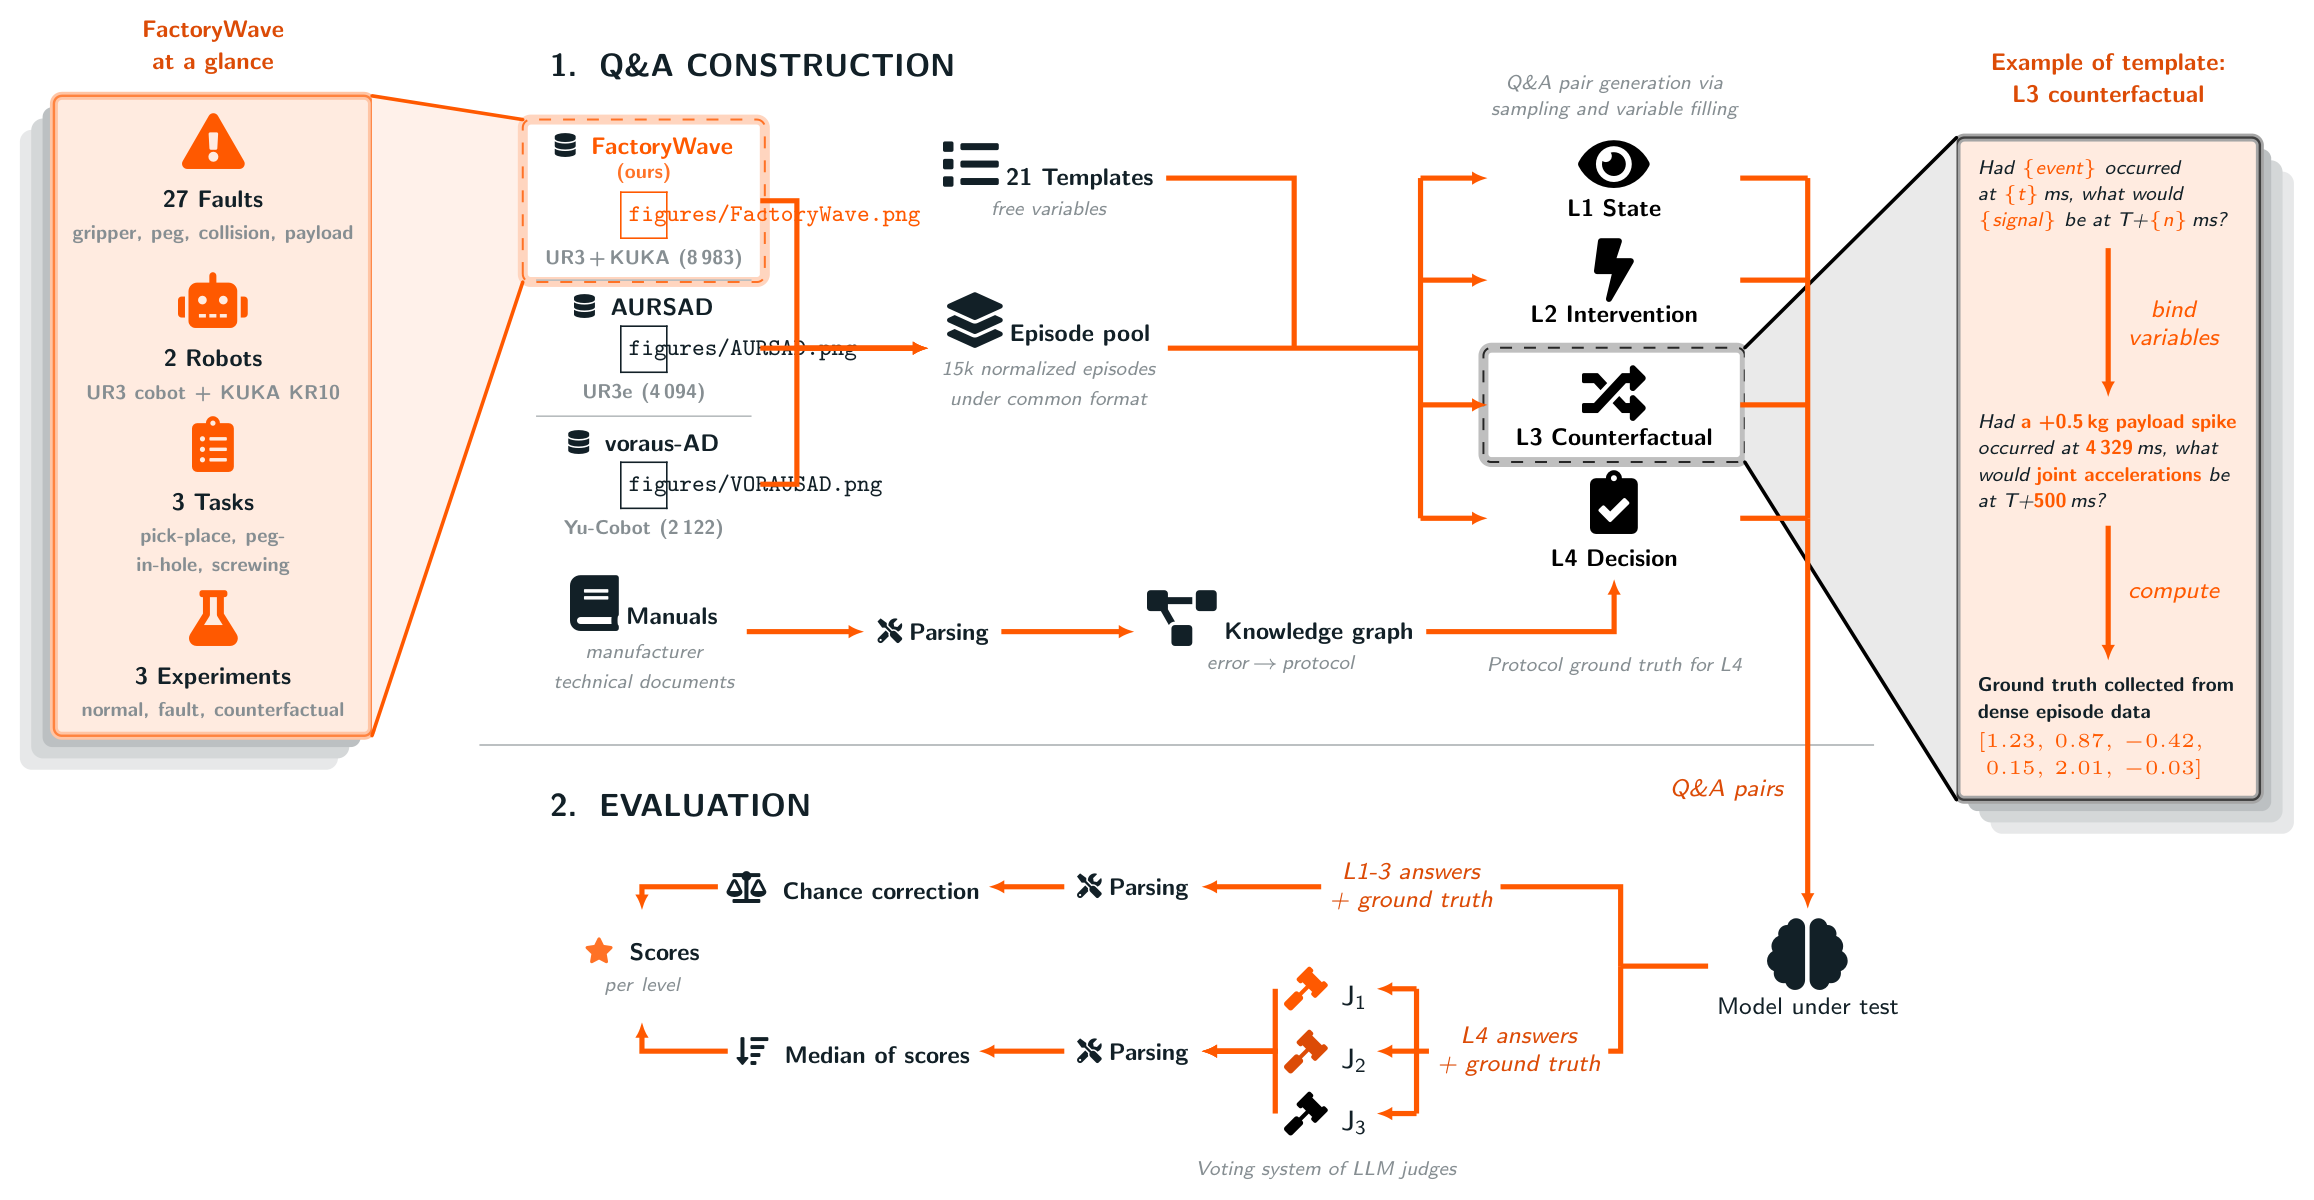
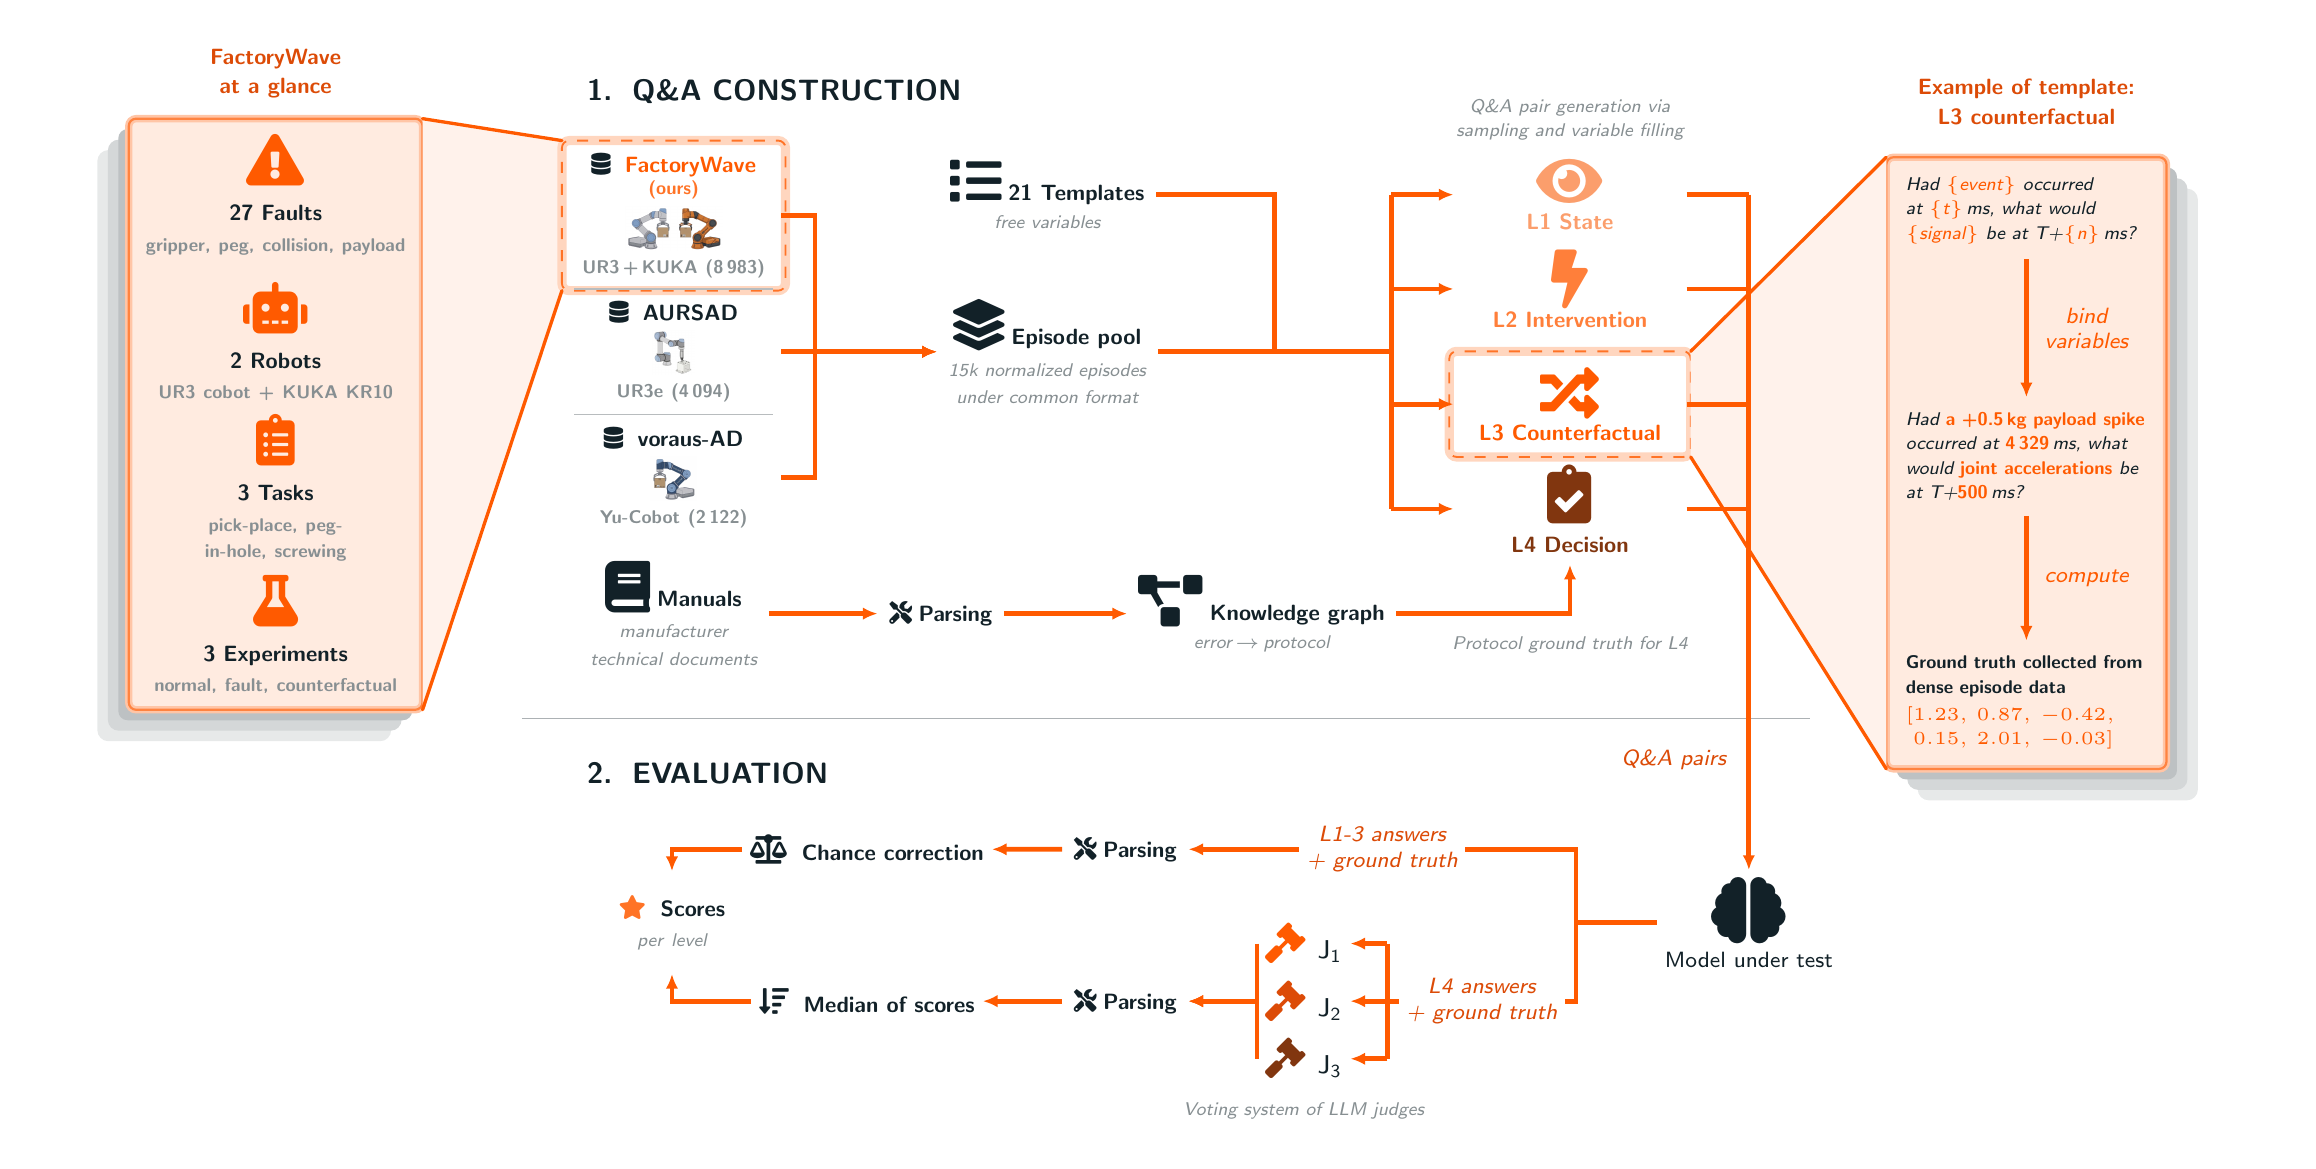
Ship the signed chance correction, and fix the README hero figure
The released grader floored the correction at zero and its docstring defined
the transform as max(0, (s-E)/(1-E)). The paper specifies a signed transform
with floor -E/(1-E). Flooring destroys the property that zero means chance,
which is the entire purpose of the correction, so anyone checking the code
against the method section found them disagreeing.

Fixed here:

  * chance_correct.py no longer clips at zero; docstring corrected.
  * generate_figures.py no longer hardcodes E=0.25 for single-select. The
    benchmark uses E = 1/k with k in {3,4}; on a 3-option item the hardcode
    inflates the corrected score by 10 points. It now prefers a per-item
    chance level and warns loudly when it must fall back, because the
    fallback cannot tell k=3 from k=4.
  * run_aws_eval.py records chance_e and n_options on every reply, so no
    downstream consumer infers E again.
  * The heatmap's vmin moves 0 -> -25. With a signed correction, clamping the
    colour scale at zero hides exactly the cells it exists to reveal.

Added:

  * tests/test_chance_correction_is_signed.py pins the behaviour: below-chance
    stays negative, the floor is -E/(1-E), chance maps to exactly zero, E comes
    from the item, and a final test asserts the ~10pp inflation a hardcoded E
    would reintroduce.
  * scripts/render_main_heatmap.py rebuilds the main results figure from an
    explicit matrix, for the case where the per-item replies are unavailable.
[…]

diff --git a/scripts/render_main_heatmap.py b/scripts/render_main_heatmap.py
@@ -1,0 +1,139 @@
+"""Render Figure 2(a) from an explicit matrix.
+
+Why this exists
+---------------
+`generate_figures.py` builds the heatmap from `output/replies/`. Those per-item
+replies no longer exist, so the published `fig_main_heatmap.pdf` could not be
+regenerated after the chance-correction fix -- and it had been drawn by the old
+script, which floored the correction at zero and hardcoded E=0.25 for every
+single-select item. The result was a figure 2-3 points above the body text on
+every L1-L3 cell, with no negative values at all while the text reported three.
+
+This module takes the matrix as data so the figure can be rebuilt from the
+values the paper actually reports, without the replies. Every number below is
+quoted verbatim from Section 5.2; the L4 column is uncorrected and already
+agreed with the old figure.
+
+Two cells are NOT recoverable: Qwen3-4B on L2 and L3. The paper never states
+them, and a clipped aggregate cannot be converted to a signed one without the
+per-item chance levels that lived in the replies. Interpolating from the other
+rows' offsets would be wrong in a predictable direction: clipping only bites on
+below-chance items, Qwen3-4B has the most of them, so its correction is larger
+than the rows we can measure. They are carried over from the old figure and
+marked with a dagger, not silently patched.
+
+matplotlib only -- the original used seaborn, which is not a dependency of this
+repo's environment.
+
+Usage:
+    python scripts/render_main_heatmap.py --out output/figures/fig_main_heatmap.pdf
+"""
+from __future__ import annotations
+
+import argparse
+import pathlib
+
+import matplotlib
+matplotlib.use("Agg")
+import matplotlib.colors as mcolors
+import matplotlib.pyplot as plt
+import numpy as np
+
+TIGER = "#ff5a00"
+FLICKER = "#DC4B07"
+GUNMETAL = "#122128"
+BRAND_CMAP = mcolors.LinearSegmentedColormap.from_list(
+    "brand", ["#FFFFFF", "#FFD6B8", TIGER, FLICKER, GUNMETAL])
+
+MODELS = [
+    "Claude Sonnet 4.6", "GPT-5.1", "Mistral Large 3", "Qwen3-235B",
+    "DeepSeek V3.2", "Simple Baseline", "Qwen3-4B",
+]
+LEVELS = [("Level 1", 572), ("Level 2", 1430), ("Level 3", 712), ("Level 4", 286)]
+NAN = float("nan")
+
+# Signed chance-corrected (%), verbatim from Section 5.2. L4 is uncorrected.
+VALUES = {
+    "Claude Sonnet 4.6": [11.8, 14.6, 45.7, 15.9],
+    "GPT-5.1":           [3.2,   6.9, 27.5, 21.5],
+    "Mistral Large 3":   [5.9,   5.3, 19.7, 15.6],
+    "Qwen3-235B":        [3.6,   4.9, 20.6, 19.9],
+    "DeepSeek V3.2":     [-0.3,  5.8, 17.1, 17.8],
+    "Simple Baseline":   [4.3,  -0.2,  6.2,  NAN],
+    "Qwen3-4B":          [-1.8,  2.3,  9.6,  5.6],
+}
+CARRIED_OVER = {("Qwen3-4B", 1), ("Qwen3-4B", 2)}
+
+VMIN, VMAX = -25.0, 100.0
+
+
+def set_style() -> None:
+    plt.rcParams.update({
+        "font.size": 10, "axes.titlesize": 12, "axes.labelsize": 10,
+        "xtick.labelsize": 9, "ytick.labelsize": 9,
+        "figure.dpi": 150, "savefig.dpi": 300,
+        "axes.linewidth": 0.8, "axes.edgecolor": GUNMETAL,
+        "axes.labelcolor": GUNMETAL, "xtick.color": GUNMETAL,
+        "ytick.color": GUNMETAL, "text.color": GUNMETAL,
+        "axes.grid": False, "figure.facecolor": "white",
+        "axes.facecolor": "white", "savefig.facecolor": "white",
+    })
+
+
+def render(out: pathlib.Path) -> None:
+    set_style()
+    matrix = np.array([VALUES[m] for m in MODELS], dtype=float)
+    masked = np.ma.masked_invalid(matrix)
+    cmap = BRAND_CMAP.copy()
+    cmap.set_bad("white")
+
+    fig, ax = plt.subplots(figsize=(7, 4))
+    im = ax.imshow(masked, cmap=cmap, vmin=VMIN, vmax=VMAX, aspect="auto")
+
+    # white gridlines between cells, matching the original
+    ax.set_xticks(np.arange(-0.5, len(LEVELS), 1), minor=True)
+    ax.set_yticks(np.arange(-0.5, len(MODELS), 1), minor=True)
+    ax.grid(which="minor", color="white", linewidth=1.5)
+    ax.tick_params(which="minor", length=0)
+    for side in ("top", "right", "bottom", "left"):
+        ax.spines[side].set_visible(False)
+
+    norm = mcolors.Normalize(vmin=VMIN, vmax=VMAX)
+    for i, m in enumerate(MODELS):
+        for j in range(len(LEVELS)):
+            v = matrix[i, j]
+            if np.isnan(v):
+                continue
+            label = "%.1f%%" % v
+            if (m, j) in CARRIED_OVER:
+                label += "†"
+            r, g, b, _ = cmap(norm(v))
+            lum = 0.299 * r + 0.587 * g + 0.114 * b
+            ax.text(j, i, label, ha="center", va="center", fontsize=9,
+                    color="white" if lum < 0.5 else GUNMETAL)
+
+    ax.set_xticks(range(len(LEVELS)))
+    ax.set_xticklabels(["%s\n(N=%s)" % (n, format(c, ",")) for n, c in LEVELS])
+    ax.set_yticks(range(len(MODELS)))
+    ax.set_yticklabels(MODELS)
+    ax.set_title("FactoryBench Results: Model × Level (Signed Chance-Corrected)",
+                 fontweight="bold", pad=12)
+
+    cbar = fig.colorbar(im, ax=ax, shrink=0.8)
+    cbar.set_label("Chance-Corrected Accuracy, signed (%)")
+    cbar.outline.set_visible(False)
+
+    fig.tight_layout()
+    out.parent.mkdir(parents=True, exist_ok=True)
+    fig.savefig(out, bbox_inches="tight")
+    plt.close(fig)
+    print("wrote %s" % out)
+    print("cells carried over from the pre-fix figure (marked †): %d"
+          % len(CARRIED_OVER))
+
+
+if __name__ == "__main__":
+    ap = argparse.ArgumentParser()
+    ap.add_argument("--out", type=pathlib.Path,
+                    default=pathlib.Path("output/figures/fig_main_heatmap.pdf"))
+    render(ap.parse_args().out)

diff --git a/scripts/generate_figures.py b/scripts/generate_figures.py
@@ -69,7 +69,10 @@ QTYPE_DISPLAY: Dict[str, str] = {
 
 LEVEL_LABELS = {1: "L1\nNumerical", 2: "L2\nMCQ", 3: "L3\nMulti-MCQ", 4: "L4\nFree-Form"}
 
-# Conservative default chance scores per format
+_WARNED_E: List[int] = []
+
+# FALLBACK ONLY, for replies predating the per-item 'chance_e' field.
+# src/evaluation/chance_correct.py is the source of truth.
 CHANCE_E: Dict[str, float] = {
     "numerical":                     0.25,
     "multiple_choice_single_select": 0.25,
@@ -115,11 +118,31 @@ def _effective_score(reply: dict) -> Optional[float]:
     return None if s is None else float(s)
 
 
-def _chance_correct(score: float, af: str) -> float:
-    E = CHANCE_E.get(af, 0.0)
+def _chance_correct(score: float, af: str, chance_e: float | None = None) -> float:
+    """Signed chance correction, matching src/evaluation/chance_correct.py.
+
+    Two defects lived here: the result was floored at zero, so below-chance
+    scores rendered as 0; and E came from CHANCE_E, which hardcodes 0.25 for
+    single-select while the benchmark uses E = 1/k with k in {3, 4}. Together
+    they put every L1-L3 cell 2-3 points above the reported values.
+
+    Prefer the per-item ``chance_e`` recorded by the evaluation runner; the
+    CHANCE_E fallback warns, because it cannot tell k=3 from k=4.
+    """
+    if chance_e is None:
+        E = CHANCE_E.get(af, 0.0)
+        if af == "multiple_choice_single_select" and not _WARNED_E:
+            _WARNED_E.append(1)
+            print("WARNING: reply has no 'chance_e'; falling back to a "
+                  "hardcoded E=%.3f for single-select. k=3 items will be "
+                  "over-corrected." % E)
+    else:
+        E = float(chance_e)
     if E >= 1.0:
         return 1.0 if score >= 1.0 else 0.0
-    return max(0.0, min(1.0, (score - E) / (1.0 - E)))
+    corrected = (score - E) / (1.0 - E)
+    # Signed: no lower clip.
+    return min(1.0, corrected)
 
 
 def load_data(replies_root: pathlib.Path) -> pd.DataFrame:
@@ -149,7 +172,7 @@ def load_data(replies_root: pathlib.Path) -> pd.DataFrame:
                     "answer_format": af,
                     "question_type": qt,
                     "score":         s,
-                    "score_cc":      _chance_correct(s, af) if s is not None else None,
+                    "score_cc":      _chance_correct(s, af, r.get("chance_e")) if s is not None else None,
                     "judge_gpt":     (votes.get("gpt-5.1-1") or {}).get("score"),
                     "judge_sonnet":  (votes.get("claude-sonnet-4.6") or {}).get("score"),
                     "judge_deepseek":(votes.get("deepseek-v3.2") or {}).get("score"),
@@ -186,7 +209,9 @@ def fig_main_heatmap(df: pd.DataFrame, model_order: List[str], out_dir: pathlib.
     fig, ax = plt.subplots(figsize=(7, 4))
     sns.heatmap(
         matrix, annot=np.array(annot), fmt="",
-        cmap=BRAND_CMAP, vmin=0, vmax=100,
+        # vmin must not be 0: the correction is signed and below-chance cells
+        # are legitimately negative. Clamping at 0 hides them.
+        cmap=BRAND_CMAP, vmin=-25, vmax=100,
         linewidths=1.5, linecolor="white",
         cbar_kws={"label": "Chance-Corrected Accuracy (%)", "shrink": 0.8},
         ax=ax, mask=np.isnan(matrix))

diff --git a/tests/test_chance_correction_is_signed.py b/tests/test_chance_correction_is_signed.py
@@ -1,0 +1,76 @@
+"""Regression guard for the chance correction.
+
+Two defects once made the main results figure disagree with the body text by
+2-3 points on every L1-L3 cell, while the L4 column (uncorrected) matched
+exactly:
+
+  1. the correction was floored at zero, so below-chance scores rendered as 0
+     and the figure contained no negative values while the prose did;
+  2. scripts/generate_figures.py hardcoded E = 0.25 for every single-select
+     item, while the benchmark uses E = 1/k with k in {3, 4}. On a 3-option
+     item that inflates the corrected score by 10 points.
+
+Both are fixed. These tests exist so neither can come back silently.
+
+Run:  python -m pytest tests/test_chance_correction_is_signed.py
+"""
+import os
+import sys
+
+sys.path.insert(0, os.path.join(os.path.dirname(__file__), ".."))
+
+from src.evaluation.chance_correct import chance_correct, expected_chance_score
+
+FOUR = {"options": dict.fromkeys("ABCD")}
+THREE = {"options": dict.fromkeys("ABC")}
+SS = "multiple_choice_single_select"
+
+
+def test_chance_level_comes_from_the_item_not_a_hardcode():
+    assert expected_chance_score(SS, FOUR) == 0.25
+    assert abs(expected_chance_score(SS, THREE) - 1.0 / 3.0) < 1e-12
+
+
+def test_below_chance_stays_negative():
+    """The property the whole correction exists to provide."""
+    assert chance_correct(0.10, SS, FOUR) < 0.0
+    assert chance_correct(0.20, SS, THREE) < 0.0
+
+
+def test_floor_is_minus_e_over_one_minus_e_not_zero():
+    assert abs(chance_correct(0.0, SS, FOUR) - (-1.0 / 3.0)) < 1e-12
+    assert abs(chance_correct(0.0, SS, THREE) - (-0.5)) < 1e-12
+
+
+def test_chance_maps_to_exactly_zero():
+    assert abs(chance_correct(0.25, SS, FOUR)) < 1e-12
+    assert abs(chance_correct(1.0 / 3.0, SS, THREE)) < 1e-12
+
+
+def test_perfect_maps_to_one():
+    assert abs(chance_correct(1.0, SS, FOUR) - 1.0) < 1e-12
+    assert abs(chance_correct(1.0, SS, THREE) - 1.0) < 1e-12
+
+
+def test_hardcoding_e_would_inflate_a_three_option_item():
+    """Documents the size of the defect, so its return is obvious."""
+    raw = 0.40
+    correct = chance_correct(raw, SS, THREE)
+    hardcoded = (raw - 0.25) / (1 - 0.25)
+    assert hardcoded - correct > 0.09, "expected ~10pp inflation from E=0.25 on k=3"
+
+
+if __name__ == "__main__":
+    import traceback
+    failed = 0
+    for name, fn in sorted(globals().items()):
+        if name.startswith("test_") and callable(fn):
+            try:
+                fn()
+                print("PASS %s" % name)
+            except Exception:
+                failed += 1
+                print("FAIL %s" % name)
+                traceback.print_exc()
+    print("\nfailures: %d" % failed)
+    sys.exit(1 if failed else 0)

diff --git a/src/evaluation/chance_correct.py b/src/evaluation/chance_correct.py
@@ -1,8 +1,12 @@
 """Chance-correction for FactoryBench raw scores.
 
 Maps a raw item score $s \\in [0,1]$ to a chance-corrected score
-$\\tilde{s} = \\max(0, (s - E) / (1 - E))$, where $E$ is the expected
-score under random guessing for that item's answer format.
+$\\tilde{s} = (s - E) / (1 - E)$, where $E$ is the expected score under
+random guessing for that item's answer format. The transform is SIGNED: an
+item scoring below chance receives $\\tilde{s} < 0$, with per-format floor
+$\\tilde{s}_{min} = -E/(1-E)$. It is not floored at zero -- flooring destroys
+the property that zero means chance, which is the whole point of the
+correction.
 
 After correction, $\\tilde{s} = 0$ corresponds to pure-chance performance
 and $\\tilde{s} = 1$ to perfect performance for every format, so per-level
@@ -103,8 +107,9 @@ def chance_correct(
         return 1.0 if float(raw_score) >= 1.0 else 0.0
     s = float(raw_score)
     corrected = (s - E) / (1.0 - E)
-    if corrected < 0.0:
-        return 0.0
+    # No lower clip: below-chance performance must stay negative. The upper
+    # guard is a no-op for well-formed input (s <= 1) and only catches a
+    # scorer that returned > 1.
     if corrected > 1.0:
         return 1.0
     return corrected

diff --git a/src/evaluation/run_aws_eval.py b/src/evaluation/run_aws_eval.py
@@ -51,6 +51,7 @@ import uuid
 from pathlib import Path
 from typing import Any, Dict, List, Optional, Tuple
 
+from src.evaluation.chance_correct import expected_chance_score
 from src.config import (
     AWS_REGION_DEFAULT,
     BEDROCK_MODELS,
@@ -362,6 +363,10 @@ def _write_reply(
         "score": score,
         "answer_format": answer_format,
         "question_type": question_type,
+        # Chance level for THIS item, resolved from the item itself (single-select
+        # is 1/k, ranking 1/n), so downstream consumers never have to guess it.
+        "chance_e": expected_chance_score(answer_format, qa_payload),
+        "n_options": len(qa_payload.get("options") or {}) or None,
         "model": model,
         "usage": usage,
         "estimated_cost": est_cost,
